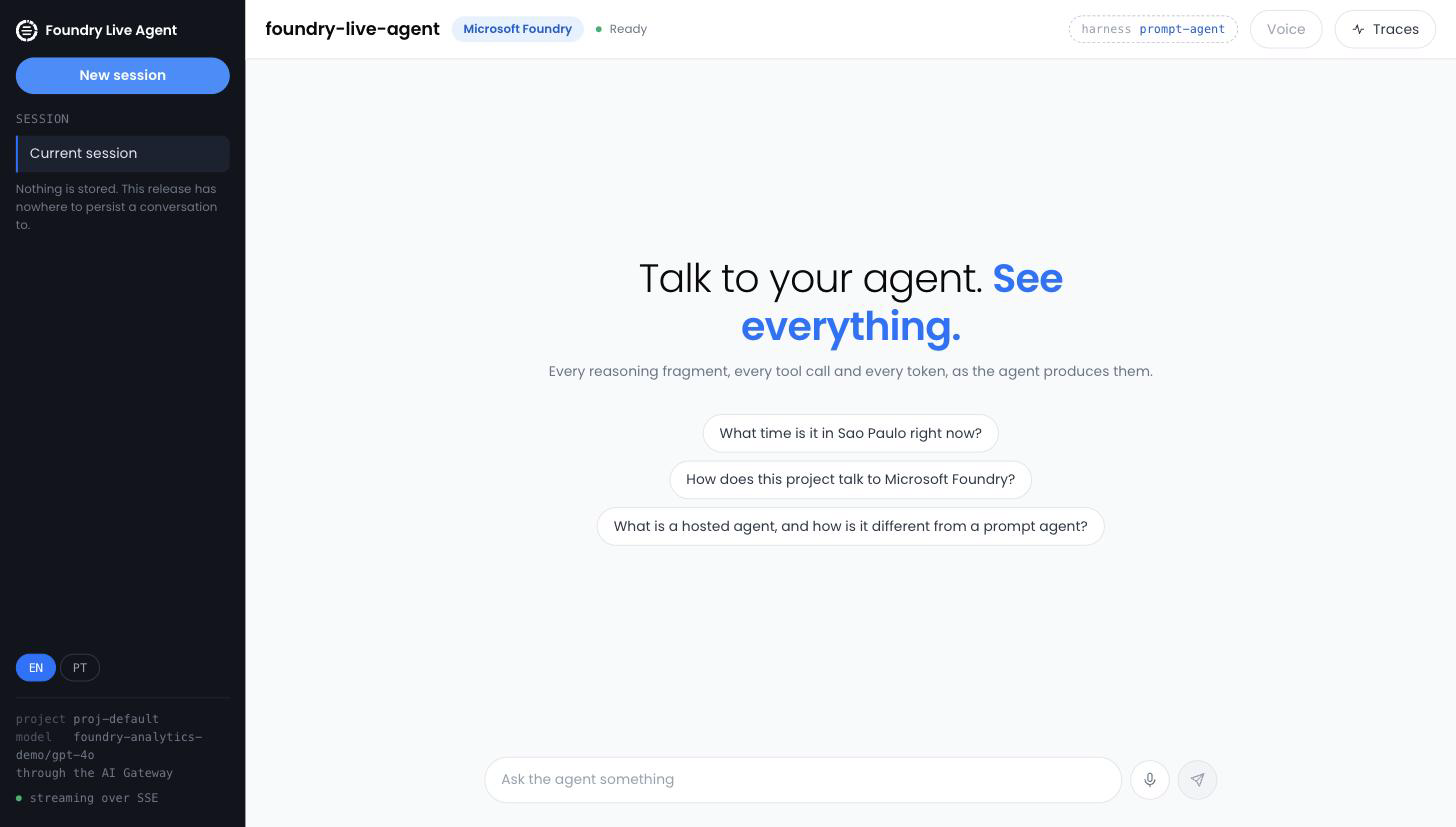
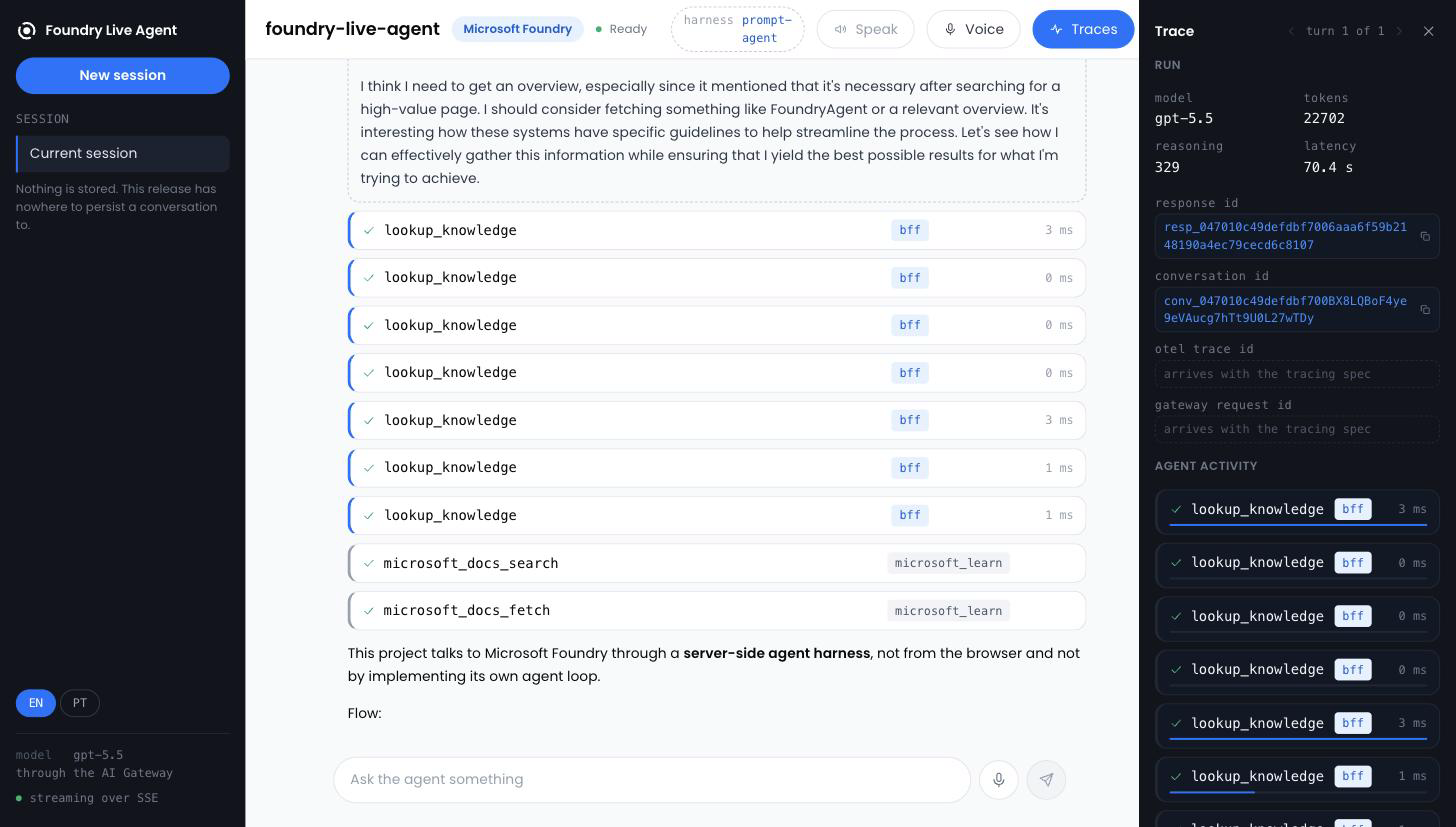
fix(frontend): the tool-row grid now aligns, and spec 014 closes
Validating the backlog meant re-reading spec 014 against the running app, and
the screenshot caught what the test suite could not.

**AC9 was only half delivered.** Each `.tool-row` is its own grid container, so
`auto` tracks size to their own row and cannot agree across rows: `bff` and
`microsoft_learn` started at different x, and an MCP call — carrying no duration
— let its tag slide into the empty fourth column. The test I wrote for AC9
asserted that the CSS *declared* grid columns. That is mechanism, not behaviour,
and it passed against a layout that was still ragged.

Both tracks now carry a floor. The chat's floors then wrapped
`lookup_knowledge` over four lines inside the 320px panel, so the floors are
custom properties and the panel lowers them, pulling the tag to the duration rail
instead — the alignment a narrow column can actually afford. Verified in a
browser at both widths, which is the only place either failure was visible.

**`modelName` moves to `components/format.ts` (§4).** The rule that strips the
`<connection>/` prefix from a BYOM deployment name lived inside `Sidebar`, so the
panel rendered `ai-admin2354ai223634534-project/gpt-5.5` over four wrapped lines
beside a sidebar saying `gpt-5.5`. `MetaLine` was showing the raw name too. One
rule, three callers.

`docs/assets/screenshot-chat.png` retaken against a live Foundry run, which
closes T15b. Spec 014 is done.

Also fixes two pieces of drift found while validating the other specs:
[…]

diff --git a/frontend/src/styles/app.css b/frontend/src/styles/app.css
@@ -759,11 +759,20 @@ button:disabled {
 /* The chat's one-line rendering of a call (spec 009). The payload it used to carry lives in the
    trace panel; what stays is the fact, and the executor tag that says who ran it. */
 .tool-row {
-  /* Four content columns and a second row for the bar. `auto` everywhere but the name means each
-     column is as wide as the widest thing in it, so the executor tag starts at the same x on every
-     row — which is the column that carries §8 and the one the eye needs to scan (spec 014 AC9). */
+  /* Four content columns and a second row for the bar.
+
+     The tag and duration tracks carry a minimum rather than sizing to their content. Each row is
+     its own grid container, so `auto` tracks cannot align *between* rows: a `bff` tag and a
+     `microsoft_learn` tag would start at different x, and an MCP call — which carries no duration
+     at all — would let its tag slide into the empty fourth column. The floors are what make the
+     executor column, the one that carries §8 and the one the eye needs to scan, actually line up
+     down the list (spec 014 AC9). A label longer than its floor still expands; that is the outlier
+     paying for itself rather than every row paying for the outlier. */
   display: grid;
-  grid-template-columns: auto minmax(0, 1fr) auto auto;
+  grid-template-columns:
+    auto minmax(0, 1fr)
+    minmax(var(--tag-col, 7.5rem), auto)
+    minmax(var(--dur-col, 3.5rem), auto);
   align-items: center;
   gap: var(--sp-1) var(--sp-2);
   width: 100%;
@@ -861,6 +870,9 @@ button:disabled {
 }
 
 .tool-row__executor {
+  /* The cell has a floor; the badge must not inherit it, or `bff` becomes a 7.5rem pill. Anchored
+     to the cell's start so every tag begins at the same x, whatever its length. */
+  justify-self: start;
   padding: 2px var(--sp-2);
   border-radius: var(--r-xs);
   font-family: var(--font-mono);
@@ -879,6 +891,8 @@ button:disabled {
 }
 
 .tool-row__meta {
+  /* Numbers read right-aligned: `3 ms` and `70.4 s` agree on their last digit, not their first. */
+  justify-self: end;
   font-family: var(--font-mono);
   font-size: var(--fs-caption);
   color: var(--fg-4);
@@ -1095,8 +1109,19 @@ button:disabled {
 }
 
 .trace__activity .tool-row {
+  /* Same grid, narrower column. At 320px the chat's tag floor leaves the name about 100px and
+     `lookup_knowledge` wraps to four lines — so here the tag sizes to itself and is pulled to the
+     duration rail instead. The rail is what stops an MCP call, which has no duration, from sliding
+     its tag into the empty fourth column; the tags then share a right edge rather than a left one,
+     which is the alignment a 320px column can actually afford. */
+  --tag-col: 0;
+  --dur-col: 3rem;
   border-color: var(--ds-n-800);
   background: var(--ds-n-900);
+}
+
+.trace__activity .tool-row__executor {
+  justify-self: end;
 }
 
 .trace__activity .tool-row:hover {

diff --git a/frontend/src/styles/layout.test.ts b/frontend/src/styles/layout.test.ts
@@ -107,14 +107,27 @@ describe('app.css regressions', () => {
 
 /** Spec 014 AC9 — the calls align, in every surface that renders one. */
 describe('the tool row grid', () => {
-  it('declares fixed columns so the executor tags line up down the list', () => {
+  it('gives the tag and duration columns a floor, so rows align across the list', () => {
     const row = css.split('.tool-row {')[1].split('}')[0]
 
     expect(row).toContain('display: grid')
-    expect(row).toMatch(/grid-template-columns:/)
-    // The name column is the one that flexes; every other column is sized by its content, which
-    // is what makes two rows with different name lengths agree on where the tag starts.
-    expect(row).toMatch(/grid-template-columns:[^;]*1fr/)
+    // Each row is its own grid container, so `auto` tracks cannot align between rows: sized to
+    // their own content, a `bff` tag and a `microsoft_learn` tag start at different x, and an MCP
+    // call — which carries no duration — lets its tag slide into the empty duration column. A
+    // minimum on both tracks is what actually makes the columns agree down the list. Measured in
+    // a browser before and after; jsdom applies no stylesheet, so this reads the rule.
+    const columns = row.match(/grid-template-columns:([^;]*)/)![1]
+    expect(columns).toMatch(/1fr/)
+    // Two floored tracks: the tag and the duration. The floors are custom properties so the 320px
+    // trace panel can lower them — at the chat's floors, `lookup_knowledge` wraps to four lines in
+    // there — which is why this looks for the fallback rather than a literal length.
+    expect(columns.match(/minmax\(var\(--(?:tag|dur)-col,\s*[\d.]+rem\)/g) ?? []).toHaveLength(2)
+  })
+
+  it('lowers those floors inside the trace panel, which is 320px wide', () => {
+    const panel = css.split('.trace__activity .tool-row {')[1].split('}')[0]
+    expect(panel).toMatch(/--tag-col:/)
+    expect(panel).toMatch(/--dur-col:/)
   })
 
   it('keeps the bar out of the row height when a call has no duration', () => {

diff --git a/frontend/src/components/format.test.ts b/frontend/src/components/format.test.ts
@@ -1,0 +1,37 @@
+/**
+ * Formatting rules that more than one surface depends on (§4).
+ *
+ * `modelName` is here because it was not: the rule for shortening a `<connection>/<model>`
+ * deployment name lived inside `Sidebar`, so when spec 014 put the model in the trace panel too,
+ * the panel rendered the raw name — four wrapped lines of `ai-admin2354ai223634534-project/gpt-5.5`
+ * beside a sidebar that said `gpt-5.5`. One fact, two spellings, which is the failure §4 names.
+ */
+import { describe, expect, it } from 'vitest'
+import { formatMs, formatClock, modelName } from './format'
+
+describe('modelName', () => {
+  it('keeps the model half of a <connection>/<model> deployment name', () => {
+    expect(modelName('ai-admin2354ai223634534-project/gpt-5.5')).toBe('gpt-5.5')
+  })
+
+  it('returns a plain deployment name unchanged', () => {
+    expect(modelName('gpt-5.5')).toBe('gpt-5.5')
+  })
+
+  it('has nothing to say about nothing', () => {
+    expect(modelName(undefined)).toBe('')
+    expect(modelName('')).toBe('')
+  })
+})
+
+describe('durations', () => {
+  it('reads milliseconds below a second and seconds above it', () => {
+    expect(formatMs(3)).toBe('3 ms')
+    expect(formatMs(2400)).toBe('2.4 s')
+  })
+
+  it('clocks mm:ss', () => {
+    expect(formatClock(0)).toBe('00:00')
+    expect(formatClock(75)).toBe('01:15')
+  })
+})

diff --git a/frontend/src/panes/Sidebar.tsx b/frontend/src/panes/Sidebar.tsx
@@ -10,6 +10,7 @@
  * conversation to in this release, so a list of them would be a drawing of a feature rather than a
  * feature — the shell stays, with one honest entry that says so (constitution §5).
  */
+import { modelName } from '../components/format'
 import { useT } from '../i18n/context'
 import { LANGS, type Lang } from '../i18n/strings'
 import type { BffConfig } from '../config'
@@ -19,12 +20,6 @@ interface Props {
   lang: Lang
   onLang: (lang: Lang) => void
   onNewSession: () => void
-}
-
-/** The model half of a `<connection>/<model>` deployment name; a plain name is returned as is. */
-function modelName(config: BffConfig | null): string {
-  const model = config?.model ?? ''
-  return model.slice(model.lastIndexOf('/') + 1)
 }
 
 export function Sidebar({ config, lang, onLang, onNewSession }: Props) {
@@ -66,7 +61,7 @@ export function Sidebar({ config, lang, onLang, onNewSession }: Props) {
       <footer className="sidebar__footer">
         <p data-testid="sidebar-model">
           <span className="sidebar__key">{s('sidebar.modelLabel')}</span>
-          {modelName(config)}
+          {modelName(config?.model)}
         </p>
         {config && (
           <p className="sidebar__gateway">

diff --git a/frontend/src/components/format.ts b/frontend/src/components/format.ts
@@ -8,3 +8,17 @@ export function formatClock(seconds: number): string {
   const minutes = Math.floor(seconds / 60)
   return `${String(minutes).padStart(2, '0')}:${String(seconds % 60).padStart(2, '0')}`
 }
+
+/**
+ * The model half of a `<connection>/<model>` deployment name; a plain name is returned as is.
+ *
+ * A BYOM deployment is named after the connection it routes through, and the connection is usually
+ * the project again — so the raw name is the project id twice over, which wraps to four lines in a
+ * 320px column and tells a reader nothing. Whether the connection routes through the gateway is the
+ * part worth showing, and the sidebar says that in words.
+ */
+export function modelName(model?: string): string {
+  if (!model) return ''
+  return model.slice(model.lastIndexOf('/') + 1)
+}
+

diff --git a/frontend/src/components/MetaLine.tsx b/frontend/src/components/MetaLine.tsx
@@ -5,7 +5,7 @@
  * do not take it, and a UI that displays a parameter the platform ignores teaches something false.
  */
 import { useT } from '../i18n/context'
-import { formatMs } from './format'
+import { formatMs, modelName } from './format'
 import type { Turn } from '../state/turn'
 
 interface Props {
@@ -21,7 +21,7 @@ export function MetaLine({ turn, model, latencyMs, onOpenTrace }: Props) {
 
   return (
     <p className="meta-line" data-testid="meta-line">
-      {model && <span className="meta-line__item">{model}</span>}
+      {model && <span className="meta-line__item">{modelName(model)}</span>}
       {usage && (
         <span className="meta-line__item">
           {`${usage.inputTokens + usage.outputTokens} ${s('meta.tokens')}`}

diff --git a/frontend/src/components/TraceNumbers.tsx b/frontend/src/components/TraceNumbers.tsx
@@ -8,7 +8,7 @@
  * tokens` there would be a measurement rather than an absence (§5).
  */
 import { useT } from '../i18n/context'
-import { formatMs } from './format'
+import { formatMs, modelName } from './format'
 import type { Turn } from '../state/turn'
 
 interface Props {
@@ -26,7 +26,7 @@ export function TraceNumbers({ turn, model, latencyMs }: Props) {
       {model && (
         <div className="trace-numbers__cell">
           <dt>{s('sidebar.modelLabel')}</dt>
-          <dd>{model}</dd>
+          <dd>{modelName(model)}</dd>
         </div>
       )}
       {usage && (

diff --git a/specs/014-trace-panel/tasks.md b/specs/014-trace-panel/tasks.md
@@ -55,9 +55,8 @@
 - [x] **T14 — implement**: add them to the `:focus-visible` rule.
 - [x] **T15 — docs (§4)**: `docs/how-it-works/tracing-and-gateway.md` gains the line that the panel
       names the two reserved ids as pending; `CHANGELOG.md` entry.
-- [ ] **T15b — screenshot**: `docs/assets/` not refreshed. The browser tooling could not attach to
-      a page in this session (script injection timed out three times against a dev server that was
-      answering 200), so no screenshot was taken rather than an old one being passed off as new (§5).
+- [x] **T15b — screenshot**: `docs/assets/screenshot-chat.png` retaken against a live Foundry run.
+      It is also what caught AC9 being only half true — see T17.
 - [x] **T16 — refactor**: re-read `TraceDrawer` for length; if the head has grown past what reads in
       one screen, lift it into a sibling component. Keep tests green. → `TurnStepper` lifted out; the
       panel body now reads as five sections without a nested control block in the header.
@@ -70,4 +69,19 @@
 - [x] All new user-facing text exists in `en` **and** `pt` (§7)
 - [x] No `AgentEvent` change — `contract.py` untouched (§9)
 - [x] Nothing on screen that the event stream did not produce (§5)
-- [ ] `spec.md` status updated to `done`
+- [x] `spec.md` status updated to `done`
+
+### Found by looking at it (added after the first screenshot)
+
+- [x] **T17 — the grid did not actually align.** Each `.tool-row` is its own grid container, so
+      `auto` tracks size to their own row and cannot agree across rows: `bff` and `microsoft_learn`
+      started at different x, and an MCP call — carrying no duration — let its tag slide into the
+      empty fourth column. The test written for AC9 asserted that the CSS *declared* grid columns,
+      which is mechanism, not behaviour, so it passed against a broken layout. Both tracks now carry
+      a floor, and the test reads the floor. Caught only by the screenshot.
+- [x] **T18 — the floors then broke the 320px panel**, wrapping `lookup_knowledge` over four lines.
+      The floors are custom properties; the panel lowers them and pulls the tag to the duration rail.
+- [x] **T19 — `modelName` moves to `components/format.ts` (§4).** The rule that strips the
+      `<connection>/` prefix lived inside `Sidebar`, so the panel rendered the raw deployment name —
+      four wrapped lines of `ai-admin2354ai223634534-project/gpt-5.5` beside a sidebar saying
+      `gpt-5.5`. `MetaLine` was showing the raw name too. One rule, three callers.

diff --git a/CHANGELOG.md b/CHANGELOG.md
@@ -26,6 +26,11 @@ and this project adheres to [Semantic Versioning](https://semver.org/spec/v2.0.0
   - No `AgentEvent` change (§9) and no harness change: everything rendered was already on `Turn`.
 
 ### Changed
+- **One rule for the model's name (§4).** The shortening that turns a `<connection>/<model>` BYOM
+  deployment into `gpt-5.5` lived inside `Sidebar`, so spec 014's panel rendered the raw name — four
+  wrapped lines of `ai-admin2354ai223634534-project/gpt-5.5` beside a sidebar saying `gpt-5.5`, and
+  the chat's meta line showed the raw name too. `modelName` now lives in `components/format.ts` with
+  the other shared formatters, and all three callers use it.
 - **An answer's markdown headings are chat headings, not page headings.** Unstyled, `h1` took the
   browser's 2em, so a section title inside a message rendered larger than the product name in the
   sidebar. The scale now starts just above body text and compresses fast.
@@ -34,6 +39,14 @@ and this project adheres to [Semantic Versioning](https://semver.org/spec/v2.0.0
   note it is.
 
 ### Fixed
+- **The tool-row grid did not actually align.** Each row is its own grid container, so `auto` tracks
+  size to their own row and cannot agree across rows: a `bff` tag and a `microsoft_learn` tag started
+  at different x, and an MCP call — which carries no duration — let its tag slide into the empty
+  fourth column. The test written for this asserted that the CSS *declared* grid columns, which is
+  mechanism rather than behaviour, so it passed against a layout that was still ragged; only a
+  screenshot caught it. Both tracks now carry a floor, and because the chat's floors wrap
+  `lookup_knowledge` over four lines inside a 320px panel, the floors are custom properties the panel
+  lowers.
 - **Keyboard focus was invisible everywhere.** 1425 lines of CSS contained no `:focus-visible` rule
   at all, and every control carries its own background — Dataside blue, ink, transparent-on-ink —
   against which the user-agent ring barely shows. One rule now covers every control, stated once.

diff --git a/specs/002-prompt-agent-harness/tasks.md b/specs/002-prompt-agent-harness/tasks.md
@@ -10,13 +10,13 @@
 - [x] **T2 — GREEN**: `tools/datetime_tool.py`, `tools/knowledge_tool.py` (+ `KnowledgeSource`
       Protocol and `LocalMarkdownKnowledge`), `tools/registry.py`, and the markdown corpus
 - [x] **T3 — RED**: `tests/test_agent_spec.py` for AC7
-- [x] **T4 — GREEN**: `harness/_shared/agent_spec.py` + `harness/prompt-agent/agent.yaml`
+- [x] **T4 — GREEN**: `harness/_shared/agent_spec.py` + `harness/prompt_agent/agent.yaml`
 - [x] **T5**: `scripts/apply_agent.py` — written, not yet runnable
 - [x] **T6**: `scripts/spike.py` — the O-1/O-3/O-8/O-9 probe, ready to run
 - [x] **T7**: `harness/langgraph/` scaffold — README documenting the intended design, `adapter.py`
       raising `NotImplementedError`, satisfying the Protocol so it can be registered but not used
 - [x] **T8 — gates**: `ruff check` · `ruff format --check` · `pytest -q` green
-- [x] **T9 — docs (§4)**: `harness/prompt-agent/README.md` — what Foundry runs vs. what we run
+- [x] **T9 — docs (§4)**: `harness/prompt_agent/README.md` — what Foundry runs vs. what we run
 
 ## Pass 2 — ran 2026-09-15
 

diff --git a/specs/002-prompt-agent-harness/plan.md b/specs/002-prompt-agent-harness/plan.md
@@ -88,11 +88,11 @@ with the BYOM model, it retries on a plain deployment, which distinguishes "BYOM
 | `ai/harness/_shared/tools/{registry,datetime_tool,knowledge_tool}.py` | New |
 | `ai/harness/_shared/tools/knowledge/*.md` | New — the corpus |
 | `ai/harness/_shared/agent_spec.py` | New — loader + validator |
-| `ai/harness/prompt-agent/agent.yaml` | New — the definition |
+| `ai/harness/prompt_agent/agent.yaml` | New — the definition |
 | `ai/scripts/{apply_agent,spike}.py` | New |
 | `ai/harness/langgraph/{README.md,adapter.py}` | New — scaffold, raises `NotImplementedError` |
 | `ai/tests/test_{tools,agent_spec}.py` | New |
-| `ai/harness/prompt-agent/{adapter,events}.py` | **Second pass**, after the spike |
+| `ai/harness/prompt_agent/{adapter,events}.py` | **Second pass**, after the spike |
 | `docs/REFERENCES.md` | Spike findings (§10) |
 
 ## Contract / data impact

diff --git a/specs/003-bff-streaming/plan.md b/specs/003-bff-streaming/plan.md
@@ -76,7 +76,7 @@ be broken quietly by someone adding a special case.
 
 ### The event normaliser, and its honest gap
 
-`ai/harness/prompt-agent/events.py` maps raw Foundry stream events onto `AgentEvent`s through a
+`ai/harness/prompt_agent/events.py` maps raw Foundry stream events onto `AgentEvent`s through a
 **declarative table**:
 
 ```python
@@ -106,7 +106,7 @@ production.
 
 ## Affected files
 
-New: everything under `backend/`, plus `ai/harness/prompt-agent/{events,adapter}.py` and their tests.
+New: everything under `backend/`, plus `ai/harness/prompt_agent/{events,adapter}.py` and their tests.
 Changed: `justfile` (already has `just backend`), `docs/how-it-works/*` at the end.
 
 ## Contract / data impact
